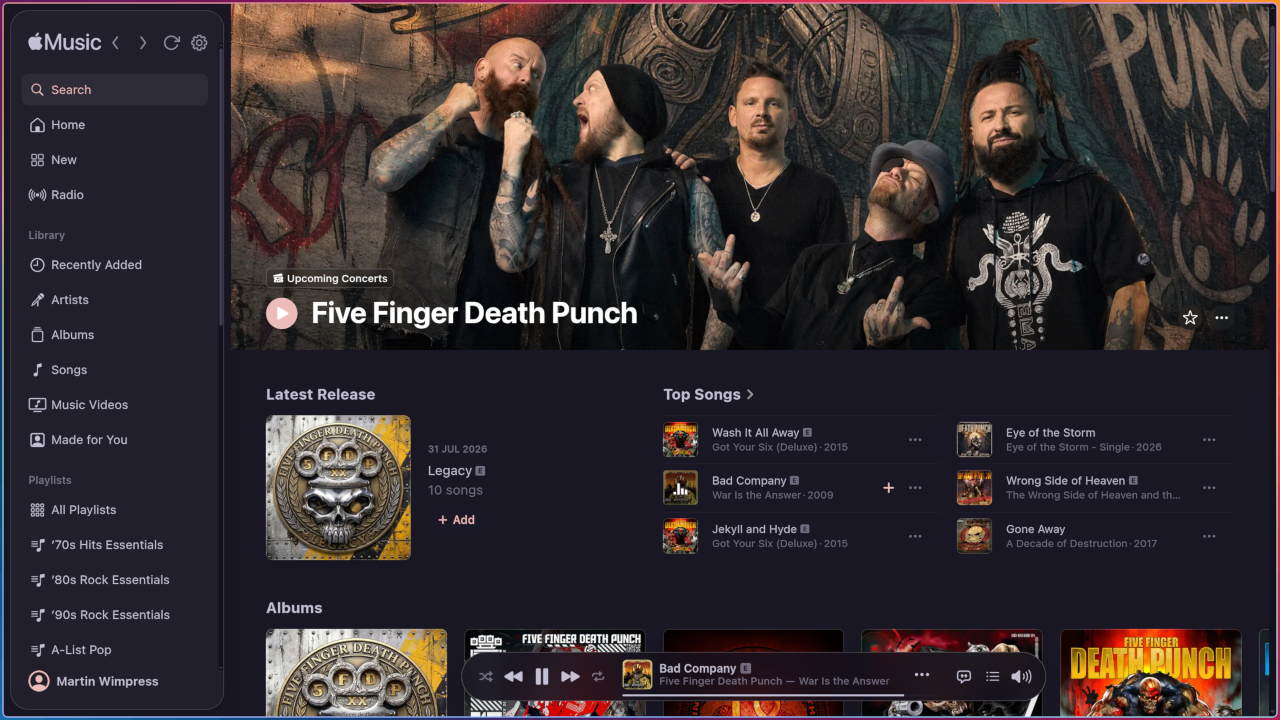
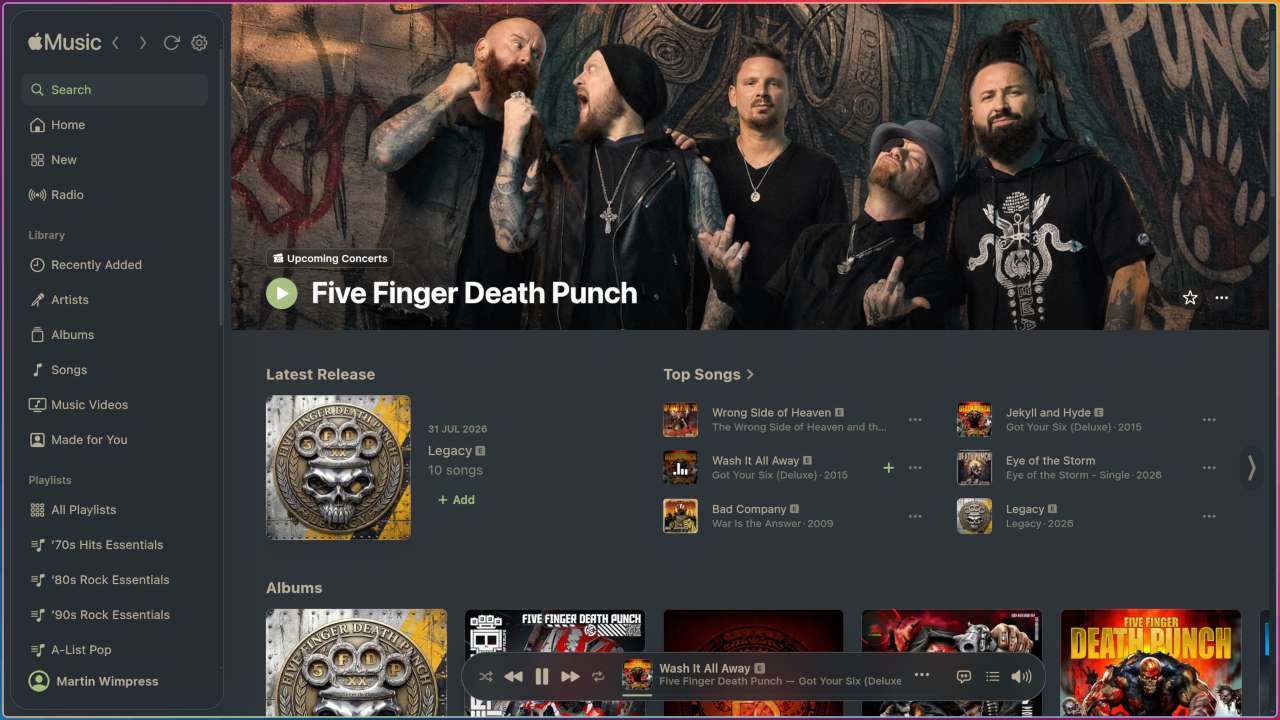
docs(screenshots): add Everforest screenshot for more variety

diff --git a/README.md b/README.md
@@ -196,9 +196,9 @@ Choose **Style** in Settings. Sidra ships with **Catppuccin**, **Dracula**, **Ev
 
 These theme examples show different artist pages. Select an image to view the full-resolution screenshot.
 
-| Rosé Pine | Catppuccin |
+| Everforest | Catppuccin |
 |---|---|
-| [![Sidra artist page with the Rosé Pine theme](assets/source/sidra-screenshot-01.png)](assets/source/sidra-screenshot-01@2x.png) | [![Sidra artist page with the Catppuccin theme](assets/source/sidra-screenshot-02.png)](assets/source/sidra-screenshot-02@2x.png) |
+| [![Sidra artist page with the Everforest theme](assets/source/sidra-screenshot-01.png)](assets/source/sidra-screenshot-01@2x.png) | [![Sidra artist page with the Catppuccin theme](assets/source/sidra-screenshot-02.png)](assets/source/sidra-screenshot-02@2x.png) |
 | **Gruvbox** | **Dracula** |
 | [![Sidra artist page with the Gruvbox theme](assets/source/sidra-screenshot-03.png)](assets/source/sidra-screenshot-03@2x.png) | [![Sidra artist page with the Dracula theme](assets/source/sidra-screenshot-04.png)](assets/source/sidra-screenshot-04@2x.png) |
 
